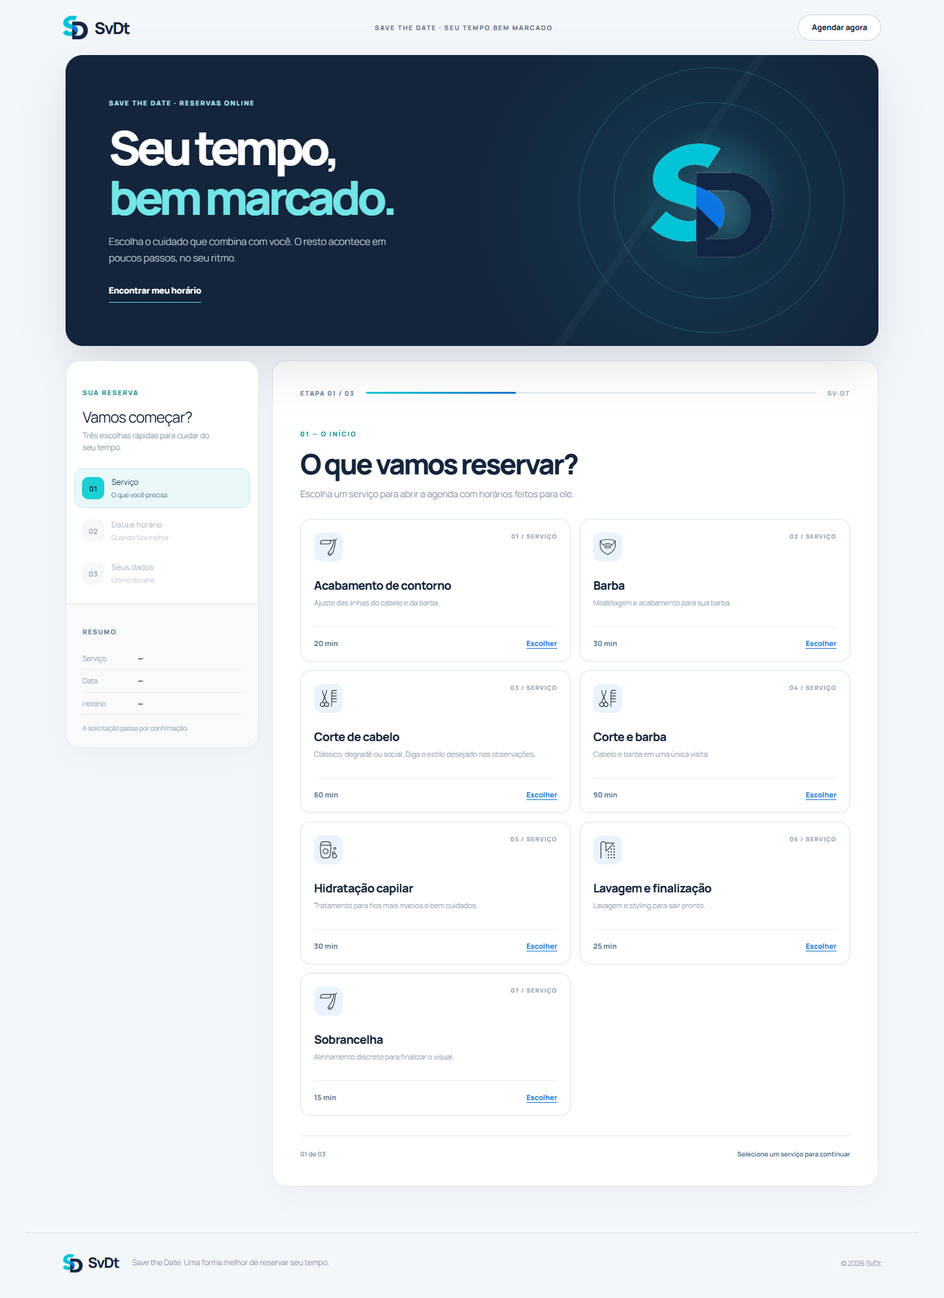
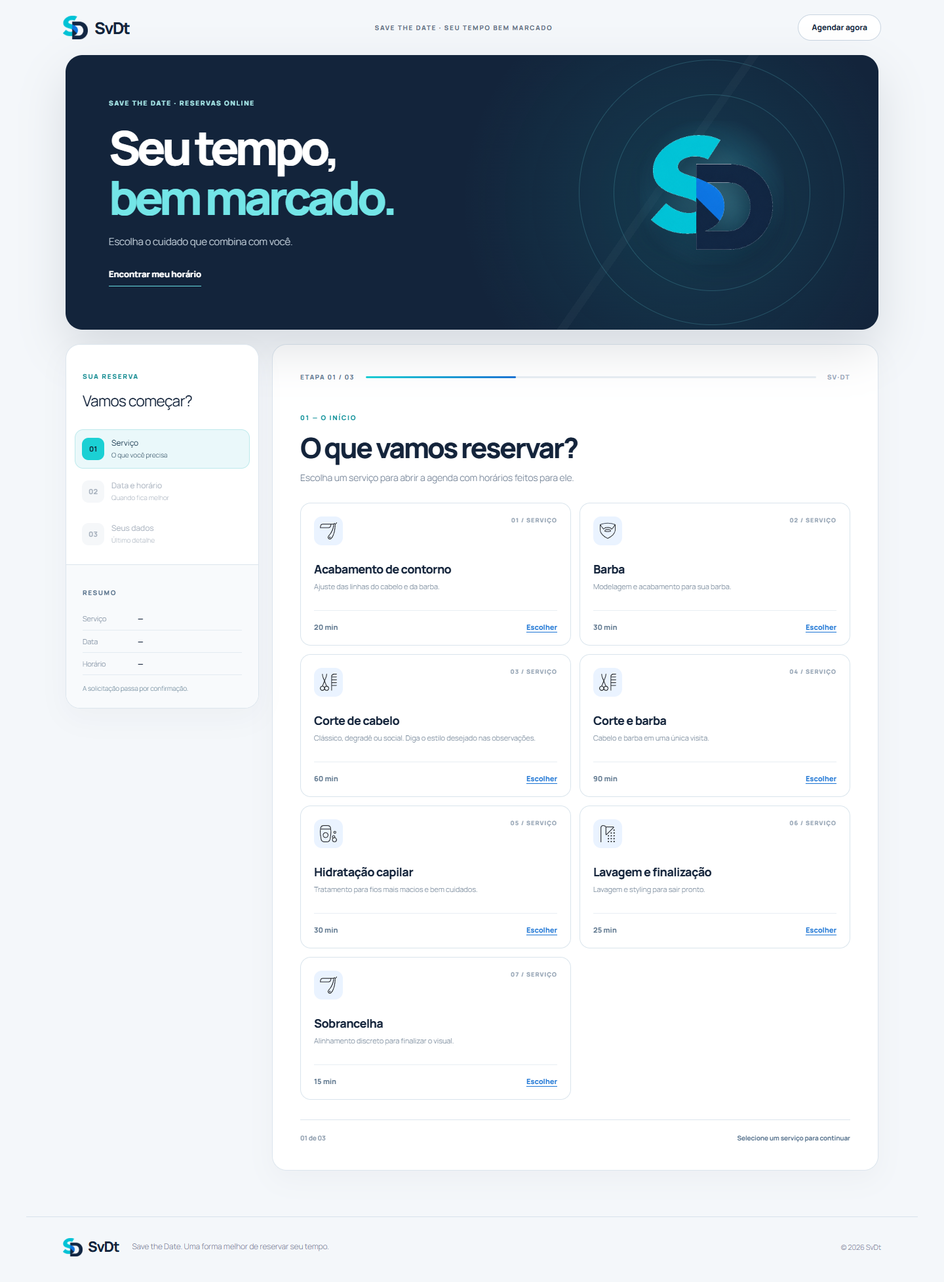
Clarify pending bookings and harden scheduling flows

diff --git a/public/booking.js b/public/booking.js
@@ -5,7 +5,9 @@
     const config = window.SvDt;
     if (!config?.api) return;
     const today = config.today;
+    const lastDate = config.lastDate;
     const todayDate = new Date(`${today}T12:00:00`);
+    const lastDay = new Date(`${lastDate}T12:00:00`);
     const state = { step: 1, service: null, date: null, time: null, month: new Date(todayDate.getFullYear(), todayDate.getMonth(), 1) };
     const reduceMotion = window.matchMedia('(prefers-reduced-motion: reduce)').matches;
     const ymd = date => `${date.getFullYear()}-${String(date.getMonth() + 1).padStart(2, '0')}-${String(date.getDate()).padStart(2, '0')}`;
@@ -37,7 +39,8 @@
       const title = $('.svdt-rail-top strong');
       const desc = $('.svdt-rail-top p');
       title.textContent = state.step === 1 ? 'Vamos começar?' : state.step === 2 ? 'Boa escolha.' : 'Último detalhe.';
-      desc.textContent = state.step === 1 ? 'Três escolhas rápidas para cuidar do seu tempo.' : state.step === 2 ? 'Agora encontre o melhor momento.' : 'Revise o horário e envie sua solicitação.';
+      desc.hidden = state.step === 1;
+      desc.textContent = state.step === 1 ? '' : state.step === 2 ? 'Agora encontre o melhor momento.' : 'Revise o horário e envie sua solicitação.';
     }
 
     function setStep(step, focus = true) {
@@ -100,7 +103,7 @@
       for (let day = 1; day <= total; day++) {
         const date = ymd(new Date(month.getFullYear(), month.getMonth(), day));
         const button = document.createElement('button'); button.type = 'button'; button.textContent = day;
-        button.disabled = date < today;
+        button.disabled = date < today || date > lastDate;
         button.classList.toggle('is-selected', date === state.date);
         button.setAttribute('aria-label', longDate(date));
         button.setAttribute('aria-pressed', String(date === state.date));
@@ -111,6 +114,7 @@
         grid.append(button);
       }
       $('[data-prev]').disabled = month.getFullYear() === todayDate.getFullYear() && month.getMonth() === todayDate.getMonth();
+      $('[data-next]').disabled = month.getFullYear() === lastDay.getFullYear() && month.getMonth() === lastDay.getMonth();
     }
 
     async function loadTimes() {

diff --git a/public/booking.css b/public/booking.css
@@ -59,8 +59,8 @@
 .svdt-progress button.is-complete{color:#1b74d4}.svdt-progress button.is-complete .svdt-progress-num{background:#eaf3ff;color:#1b74d4}.svdt-rail-summary p{color:#607d91}.svdt-service-icon,.svdt-service-card:nth-child(2n) .svdt-service-icon{background:#eaf3ff;color:#1b74d4}.svdt-service-icon img{display:block;width:26px;height:26px;object-fit:contain;opacity:.82}.svdt-service-action{text-decoration:underline;text-underline-offset:3px}.svdt-submit{justify-content:center}.svdt-success-icon{background:#eaf8fa;color:#1b74d4}.svdt-month button svg{width:16px;height:16px;display:block}.svdt-panel-foot b,.svdt-progress-indicator{display:none}
 @media(max-width:900px){.svdt-art-center{width:155px;height:155px;border-radius:20px}.svdt-art-center img{width:135px;height:128px}.svdt-orbit-one{width:215px;height:215px}.svdt-orbit-two{width:285px;height:285px}.svdt-art-note{bottom:14px}}
 .svdt-art-center{background:radial-gradient(circle,#75d5e37a 0%,#3597af35 48%,transparent 75%);box-shadow:none}.svdt-art-center img{filter:drop-shadow(0 14px 18px #06182b75)}
-.svdt-site-actions{display:flex;align-items:center;justify-content:flex-end;gap:18px}.svdt-site-cta{justify-content:center;text-align:center;padding:11px 20px;white-space:nowrap}.svdt-admin-link{color:#315a80;font-size:12px;font-weight:800;text-decoration:none;white-space:nowrap}.svdt-admin-link:hover{text-decoration:underline;text-underline-offset:3px}
-@media(max-width:700px){.svdt-site-actions{gap:12px}.svdt-site-cta{padding:9px 15px}.svdt-admin-link{font-size:10px}}
+.svdt-site-actions{display:flex;align-items:center;justify-content:flex-end;gap:18px}.svdt-site-cta{justify-content:center;text-align:center;padding:11px 20px;white-space:nowrap}
+@media(max-width:700px){.svdt-site-actions{gap:12px}.svdt-site-cta{padding:9px 15px}}
 @media(max-width:700px){.svdt-rail{position:static}.svdt-rail-summary{margin-top:0}}
 .svdt-service-card:hover,.svdt-service-card:active{transform:none}
 .svdt-selection-strip>span svg{display:block;width:15px;height:15px}

diff --git a/includes/class-svdt-admin.php b/includes/class-svdt-admin.php
@@ -29,9 +29,9 @@ final class SvDt_Admin
         check_admin_referer('svdt_' . $action);
     }
 
-    private function redirect(string $page, string $message): void
+    private function redirect(string $page, string $message, bool $success = true): void
     {
-        wp_safe_redirect(admin_url('admin.php?page=' . $page . '&notice=' . rawurlencode($message)));
+        wp_safe_redirect(admin_url('admin.php?page=' . $page . '&notice=' . rawurlencode($message) . '&notice_type=' . ($success ? 'success' : 'error')));
         exit;
     }
 
@@ -39,7 +39,8 @@ final class SvDt_Admin
     {
         echo '<div class="wrap svdt-admin"><div class="svdt-admin-head"><div><span class="svdt-eyebrow">SV·DT / GESTÃO</span><h1>' . esc_html($title) . '</h1><p>' . esc_html($description) . '</p></div><img class="svdt-admin-logo" src="' . esc_url(SVDT_URL . 'public/assets/logo-svdt.svg') . '" alt="SvDt" width="57" height="54"></div>';
         if (isset($_GET['notice'])) {
-            echo '<div class="notice notice-success is-dismissible"><p>' . esc_html(sanitize_text_field(wp_unslash($_GET['notice']))) . '</p></div>';
+            $notice_type = isset($_GET['notice_type']) && sanitize_key(wp_unslash($_GET['notice_type'])) === 'error' ? 'error' : 'success';
+            echo '<div class="notice notice-' . esc_attr($notice_type) . ' is-dismissible"><p>' . esc_html(sanitize_text_field(wp_unslash($_GET['notice']))) . '</p></div>';
         }
     }
 
@@ -155,7 +156,7 @@ final class SvDt_Admin
         $request->set_param('id', absint($_POST['id'] ?? 0));
         $request->set_param('status', sanitize_key(wp_unslash($_POST['status'] ?? '')));
         $result = (new SvDt_REST())->update_booking($request);
-        $this->redirect('svdt', is_wp_error($result) ? $result->get_error_message() : 'Agendamento atualizado.');
+        $this->redirect('svdt', is_wp_error($result) ? $result->get_error_message() : 'Agendamento atualizado.', !is_wp_error($result));
     }
 
     public function services_page(): void
@@ -185,11 +186,19 @@ final class SvDt_Admin
         $duration = absint($_POST['duration'] ?? 0);
         $buffer = absint($_POST['buffer'] ?? 0);
         if (!$name || strlen($name) > 150 || $duration < 5 || $duration > 480 || $buffer > 120) {
-            $this->redirect('svdt-services', 'Dados inválidos.');
+            $this->redirect('svdt-services', 'Dados inválidos.', false);
         }
         $data = array('name' => $name, 'description' => $description, 'duration_minutes' => $duration, 'buffer_minutes' => $buffer, 'active' => isset($_POST['active']) || !$id ? 1 : 0);
-        if ($id) $wpdb->update(SvDt_DB::table('services'), $data, array('id' => $id));
-        else $wpdb->insert(SvDt_DB::table('services'), $data + array('created_at' => current_time('mysql')));
+        $table = SvDt_DB::table('services');
+        if ($id) {
+            $result = $wpdb->update($table, $data, array('id' => $id));
+            if ($result === 0 && !$wpdb->get_var($wpdb->prepare("SELECT id FROM $table WHERE id = %d", $id))) {
+                $this->redirect('svdt-services', 'Serviço não encontrado.', false);
+            }
+        } else {
+            $result = $wpdb->insert($table, $data + array('created_at' => current_time('mysql')));
+        }
+        if ($result === false) $this->redirect('svdt-services', 'Não foi possível salvar o serviço.', false);
         $this->redirect('svdt-services', 'Serviço salvo.');
     }
 
@@ -197,7 +206,9 @@ final class SvDt_Admin
     {
         $this->guard('delete_service');
         global $wpdb;
-        $wpdb->update(SvDt_DB::table('services'), array('active' => 0), array('id' => absint($_POST['id'] ?? 0)));
+        $result = $wpdb->update(SvDt_DB::table('services'), array('active' => 0), array('id' => absint($_POST['id'] ?? 0)));
+        if ($result === false) $this->redirect('svdt-services', 'Não foi possível desativar o serviço.', false);
+        if ($result === 0) $this->redirect('svdt-services', 'Serviço não encontrado ou já desativado.', false);
         $this->redirect('svdt-services', 'Serviço desativado.');
     }
 
@@ -235,16 +246,17 @@ final class SvDt_Admin
         global $wpdb;
         $table = SvDt_DB::table('business_hours');
         if (!empty($_POST['delete_id'])) {
-            $wpdb->delete($table, array('id' => absint($_POST['delete_id'])));
+            $result = $wpdb->delete($table, array('id' => absint($_POST['delete_id'])));
         } else {
             $day = absint($_POST['weekday'] ?? 9);
             $start = sanitize_text_field(wp_unslash($_POST['start'] ?? ''));
             $end = sanitize_text_field(wp_unslash($_POST['end'] ?? ''));
             if ($day > 6 || !preg_match('/^([01][0-9]|2[0-3]):[0-5][0-9]$/', $start) || !preg_match('/^([01][0-9]|2[0-3]):[0-5][0-9]$/', $end) || $start >= $end) {
-                $this->redirect('svdt-schedule', 'Intervalo inválido.');
+                $this->redirect('svdt-schedule', 'Intervalo inválido.', false);
             }
-            $wpdb->insert($table, array('weekday' => $day, 'start_time' => $start . ':00', 'end_time' => $end . ':00', 'active' => 1));
+            $result = $wpdb->insert($table, array('weekday' => $day, 'start_time' => $start . ':00', 'end_time' => $end . ':00', 'active' => 1));
         }
+        if ($result === false || $result === 0) $this->redirect('svdt-schedule', 'Não foi possível atualizar o expediente.', false);
         $this->redirect('svdt-schedule', 'Expediente atualizado.');
     }
 
@@ -253,8 +265,9 @@ final class SvDt_Admin
         $this->guard('add_block');
         global $wpdb;
         $date = sanitize_text_field(wp_unslash($_POST['date'] ?? ''));
-        if (!SvDt_Schedule::parse_date($date)) $this->redirect('svdt-schedule', 'Data inválida.');
-        $wpdb->replace(SvDt_DB::table('blocked_dates'), array('blocked_date' => $date, 'reason' => sanitize_text_field(wp_unslash($_POST['reason'] ?? ''))));
+        if (!SvDt_Schedule::parse_date($date)) $this->redirect('svdt-schedule', 'Data inválida.', false);
+        $result = $wpdb->replace(SvDt_DB::table('blocked_dates'), array('blocked_date' => $date, 'reason' => sanitize_text_field(wp_unslash($_POST['reason'] ?? ''))));
+        if ($result === false || $result === 0) $this->redirect('svdt-schedule', 'Não foi possível bloquear a data.', false);
         $this->redirect('svdt-schedule', 'Data bloqueada.');
     }
 
@@ -262,7 +275,8 @@ final class SvDt_Admin
     {
         $this->guard('delete_block');
         global $wpdb;
-        $wpdb->delete(SvDt_DB::table('blocked_dates'), array('id' => absint($_POST['id'] ?? 0)));
+        $result = $wpdb->delete(SvDt_DB::table('blocked_dates'), array('id' => absint($_POST['id'] ?? 0)));
+        if ($result === false || $result === 0) $this->redirect('svdt-schedule', 'Não foi possível liberar a data.', false);
         $this->redirect('svdt-schedule', 'Data liberada.');
     }
 }

diff --git a/public/booking.php b/public/booking.php
@@ -4,7 +4,7 @@
     <div class="svdt-hero-copy">
       <span class="svdt-overline">SAVE THE DATE · RESERVAS ONLINE</span>
       <h1>Seu tempo,<br><em>bem marcado.</em></h1>
-      <p>Escolha o cuidado que combina com você. O resto acontece em poucos passos, no seu ritmo.</p>
+      <p>Escolha o cuidado que combina com você.</p>
       <a href="#svdt-booking" class="svdt-hero-link">Encontrar meu horário</a>
     </div>
     <div class="svdt-hero-art" aria-hidden="true">
@@ -15,7 +15,7 @@
 
   <div class="svdt-workspace" id="svdt-booking">
     <aside class="svdt-rail" aria-label="Progresso e resumo da reserva">
-      <div class="svdt-rail-top"><span class="svdt-rail-caption">SUA RESERVA</span><strong>Vamos começar?</strong><p>Três escolhas rápidas para cuidar do seu tempo.</p></div>
+      <div class="svdt-rail-top"><span class="svdt-rail-caption">SUA RESERVA</span><strong>Vamos começar?</strong><p hidden></p></div>
       <ol class="svdt-progress">
         <li><button type="button" data-step-go="1" aria-current="step"><span class="svdt-progress-num">01</span><span><b>Serviço</b><small>O que você precisa</small></span></button></li>
         <li><button type="button" data-step-go="2" disabled><span class="svdt-progress-num">02</span><span><b>Data e horário</b><small>Quando fica melhor</small></span></button></li>
@@ -45,7 +45,7 @@
         <form data-booking-form class="svdt-contact"><div class="svdt-field-row"><label>Nome completo<input name="customer_name" autocomplete="name" maxlength="150" placeholder="Como podemos chamar você?" required></label><label>E-mail<input type="email" name="customer_email" autocomplete="email" maxlength="190" placeholder="voce@exemplo.com" required></label></div><label>Telefone<input type="tel" name="customer_phone" autocomplete="tel" maxlength="30" placeholder="(11) 99999-9999" required></label><label>Observações <small>opcional</small><textarea name="notes" maxlength="2000" rows="3" placeholder="Alguma preferência ou detalhe importante?"></textarea></label><div class="svdt-trap" aria-hidden="true"><label>Site da empresa<input name="company_website" tabindex="-1" autocomplete="off"></label></div><p class="svdt-privacy">Usaremos seus dados apenas para administrar esta solicitação.</p><div class="svdt-feedback" data-feedback role="status" aria-live="polite"></div><button type="submit" class="svdt-submit" data-submit>Enviar solicitação</button></form>
       </section>
 
-      <section class="svdt-success" data-success hidden role="status" aria-live="polite"><div class="svdt-success-icon" aria-hidden="true">✓</div><span class="svdt-section-index">PEDIDO RECEBIDO</span><h2>Sua hora foi marcada</h2><p>Recebemos sua solicitação. Guarde a referência abaixo para conversar com o estabelecimento.</p><div class="svdt-reference"><span>REFERÊNCIA</span><strong data-reference></strong></div><p class="svdt-success-note">O horário fica reservado provisoriamente até a confirmação.</p><button type="button" data-new>Fazer outra reserva</button></section>
+      <section class="svdt-success" data-success hidden role="status" aria-live="polite"><div class="svdt-success-icon" aria-hidden="true">✓</div><span class="svdt-section-index">PEDIDO RECEBIDO</span><h2>Solicitação de agendamento recebida</h2><p>Recebemos sua solicitação. Guarde a referência abaixo para conversar com o estabelecimento.</p><div class="svdt-reference"><span>REFERÊNCIA</span><strong data-reference></strong></div><p class="svdt-success-note">O horário fica reservado provisoriamente até a confirmação.</p><button type="button" data-new>Fazer outra reserva</button></section>
     </div>
   </div>
 </div>

diff --git a/tests/smoke-local.php b/tests/smoke-local.php
@@ -34,6 +34,10 @@ try {
     $change->set_param('id', $booking_id);
     $change->set_param('status', 'confirmed');
     if (is_wp_error($controller->update_booking($change))) throw new RuntimeException('Confirmação falhou.');
+    $stale = $wpdb->update(SvDt_DB::table('bookings'), array('status' => 'cancelled'), array('id' => $booking_id, 'status' => 'pending'), array('%s'), array('%d', '%s'));
+    if ($stale !== 0 || $wpdb->get_var($wpdb->prepare('SELECT status FROM ' . SvDt_DB::table('bookings') . ' WHERE id = %d', $booking_id)) !== 'confirmed') {
+        throw new RuntimeException('Atualização condicional não protegeu o status confirmado.');
+    }
     $change->set_param('status', 'cancelled');
     if (is_wp_error($controller->update_booking($change))) throw new RuntimeException('Cancelamento falhou.');
     $released = SvDt_Schedule::slots((int) $service->id, $date);
@@ -51,7 +55,14 @@ try {
     if (!is_wp_error(SvDt_Schedule::slots((int) $service->id, $date))) throw new RuntimeException('Serviço inativo retornou horários.');
     $wpdb->update(SvDt_DB::table('services'), array('active' => $original_active), array('id' => $service->id));
     if (SvDt_Schedule::slots((int) $service->id, '2020-01-01') !== array()) throw new RuntimeException('Data passada retornou horários.');
-    WP_CLI::success('Reserva, conflito, estados, cancelamento, bloqueio, serviço inativo e entradas inválidas passaram.');
+    $last_allowed = current_datetime()->modify('+90 days')->format('Y-m-d');
+    if (is_wp_error(SvDt_Schedule::slots((int) $service->id, $last_allowed))) throw new RuntimeException('O último dia da janela foi rejeitado.');
+    $beyond = current_datetime()->modify('+91 days')->format('Y-m-d');
+    $outside = SvDt_Schedule::slots((int) $service->id, $beyond);
+    if (!is_wp_error($outside) || $outside->get_error_code() !== 'date_out_of_range') throw new RuntimeException('Data além de 90 dias foi aceita na disponibilidade.');
+    $outside_booking = SvDt_Bookings::create(array_replace($data, array('date' => $beyond)));
+    if (!is_wp_error($outside_booking) || $outside_booking->get_error_code() !== 'date_out_of_range') throw new RuntimeException('Data além de 90 dias foi aceita na reserva.');
+    WP_CLI::success('Reserva, conflito, estados, atualização condicional, limite de 90 dias, cancelamento, bloqueio, serviço inativo e entradas inválidas passaram.');
 } finally {
     if ($booking_id) $wpdb->delete(SvDt_DB::table('bookings'), array('id' => $booking_id));
     if ($block_id) $wpdb->delete(SvDt_DB::table('blocked_dates'), array('id' => $block_id));

diff --git a/includes/class-svdt-rest.php b/includes/class-svdt-rest.php
@@ -105,8 +105,14 @@ final class SvDt_REST
         if ($status !== $booking->status && !in_array($status, $transitions[$booking->status] ?? array(), true)) {
             return new WP_Error('invalid_transition', 'Mudança de status não permitida.', array('status' => 409));
         }
-        if ($status !== $booking->status && $wpdb->update($table, array('status' => $status), array('id' => $id), array('%s'), array('%d')) === false) {
-            return new WP_Error('update_failed', 'Não foi possível atualizar o agendamento.', array('status' => 500));
+        if ($status !== $booking->status) {
+            $updated = $wpdb->update($table, array('status' => $status), array('id' => $id, 'status' => $booking->status), array('%s'), array('%d', '%s'));
+            if ($updated === false) {
+                return new WP_Error('update_failed', 'Não foi possível atualizar o agendamento.', array('status' => 500));
+            }
+            if ($updated === 0) {
+                return new WP_Error('booking_changed', 'O status foi alterado por outra operação. Atualize a página e tente novamente.', array('status' => 409));
+            }
         }
         return rest_ensure_response(array('id' => $id, 'status' => $status));
     }

diff --git a/svdt.php b/svdt.php
@@ -2,7 +2,7 @@
 /**
  * Plugin Name: SvDt
  * Description: Uma experiência de agendamento com serviços, disponibilidade e gestão no WordPress.
- * Version: 0.3.1
+ * Version: 0.3.2
  * Requires at least: 6.2
  * Requires PHP: 8.0
  * Text Domain: svdt
@@ -10,7 +10,8 @@
 
 defined('ABSPATH') || exit;
 
-define('SVDT_VERSION', '0.3.1');
+define('SVDT_VERSION', '0.3.2');
+define('SVDT_BOOKING_WINDOW_DAYS', 90);
 define('SVDT_PATH', plugin_dir_path(__FILE__));
 define('SVDT_URL', plugin_dir_url(__FILE__));
 
@@ -53,6 +54,7 @@ function svdt_render_shortcode(): string
     wp_add_inline_script('svdt-booking', 'window.SvDt=' . wp_json_encode(array(
         'api' => esc_url_raw(rest_url('svdt/v1/')),
         'today' => current_datetime()->format('Y-m-d'),
+        'lastDate' => current_datetime()->setTime(0, 0)->modify('+' . SVDT_BOOKING_WINDOW_DAYS . ' days')->format('Y-m-d'),
         'serviceIcon' => esc_url_raw(SVDT_URL . 'public/assets/barber-shop.svg'),
         'serviceIcons' => array(
             'Acabamento de contorno' => esc_url_raw(SVDT_URL . 'public/assets/razor-barber.svg'),

diff --git a/includes/class-svdt-schedule.php b/includes/class-svdt-schedule.php
@@ -20,8 +20,12 @@ final class SvDt_Schedule
         if (!$service) {
             return new WP_Error('invalid_service', 'Serviço indisponível.', array('status' => 404));
         }
-        if ($day < current_datetime()->setTime(0, 0)) {
+        $today = current_datetime()->setTime(0, 0);
+        if ($day < $today) {
             return array();
+        }
+        if ($day > $today->modify('+' . SVDT_BOOKING_WINDOW_DAYS . ' days')) {
+            return new WP_Error('date_out_of_range', sprintf('Escolha uma data nos próximos %d dias.', SVDT_BOOKING_WINDOW_DAYS), array('status' => 400));
         }
         $blocked = SvDt_DB::table('blocked_dates');
         if ($wpdb->get_var($wpdb->prepare("SELECT id FROM $blocked WHERE blocked_date = %s", $date))) {

diff --git a/public/showcase-template.php b/public/showcase-template.php
@@ -11,7 +11,6 @@ wp_enqueue_style('svdt-booking', SVDT_URL . 'public/booking.css', array(), SVDT_
     <a class="svdt-logo" href="<?php echo esc_url(home_url('/')); ?>" aria-label="SvDt, início"><img src="<?php echo esc_url(SVDT_URL . 'public/assets/logo-svdt.svg'); ?>" alt="" width="38" height="36"><span>SvDt</span></a>
     <span class="svdt-site-label">SAVE THE DATE · SEU TEMPO BEM MARCADO</span>
     <nav class="svdt-site-actions" aria-label="Acesso rápido">
-      <?php if (current_user_can('manage_options')) : ?><a class="svdt-admin-link" href="<?php echo esc_url(admin_url('admin.php?page=svdt')); ?>">Painel SvDt</a><?php endif; ?>
       <a class="svdt-site-cta" href="#svdt-booking">Agendar agora</a>
     </nav>
   </header>

diff --git a/README.md b/README.md
@@ -7,7 +7,7 @@ Plugin WordPress autoral demonstrativo para negócios que atendem com hora marca
 ## Experiência
 
 - No catálogo de demonstração, **Corte de cabelo** reúne estilos como clássico, degradê e social; o cliente informa a preferência nas observações. **Barba** aparece como um único serviço.
-- A agenda aparece após a escolha do serviço e mostra apenas horários válidos para sua duração.
+- A agenda aparece após a escolha do serviço e mostra apenas horários válidos para sua duração, dentro dos próximos 90 dias.
 - Um horário selecionado abre o formulário; voltar preserva as escolhas anteriores.
 - O resumo e o indicador de progresso acompanham cada etapa.
 - Estados de carregamento, vazio, erro e sucesso têm mensagens próprias.
@@ -29,7 +29,7 @@ Outras telas: [serviço no celular](docs/screenshots/svdt-mobile-step1.png), [da
 - Serviços com duração, intervalo após atendimento, descrição e estado ativo.
 - Expediente com múltiplos intervalos por dia e bloqueio de datas.
 - Disponibilidade com antecedência mínima de 60 minutos e passos de 30 minutos.
-- Reserva pública com status pendente, validação no servidor, honeypot e limite de tentativas por IP.
+- Solicitação pública com status pendente, validação no servidor, honeypot e limite de tentativas por IP; a tela de sucesso informa que ainda depende de confirmação.
 - Bloqueio MySQL por agenda durante a nova verificação e gravação, evitando reservas simultâneas sobrepostas.
 - Painel com calendário mensal que marca os dias com reservas, filtros por data, status e serviço; ações de confirmação, cancelamento e conclusão.
 - Endpoints REST públicos e administrativos.
@@ -48,7 +48,7 @@ Na atualização de uma instalação anterior, faça um backup do banco, desativ
 
 Nesta instalação Local, a demonstração abre em **`http://localhost:10011/`** e o painel em **`http://localhost:10011/wp-admin/`**.
 
-Após entrar no WordPress como administrador, use **SvDt → Agendamentos**, **Serviços** e **Disponibilidade** em `wp-admin/admin.php?page=svdt`. A página pública também mostra o atalho **Painel SvDt** no cabeçalho apenas para administradores autenticados. A área de gestão faz parte do painel WordPress; não é uma página pública separada.
+Após entrar no WordPress como administrador, use **SvDt → Agendamentos**, **Serviços** e **Disponibilidade** em `wp-admin/admin.php?page=svdt`. A área de gestão faz parte do painel WordPress; não é uma página pública separada.
 
 ## API
 
@@ -64,7 +64,7 @@ O corpo do POST contém `service_id`, `date`, `time`, `customer_name`, `customer
 
 ## Verificação
 
-Validado no Local com WordPress 7.1.4, PHP 8.2.29 e MySQL 8.4.0. Na migração para a versão 0.3.0, as quatro tabelas foram renomeadas e os 7 serviços e 10 agendamentos existentes foram preservados. O teste `tests/smoke-local.php` verificou reserva, conflitos, transições de status, cancelamento, data bloqueada, serviço inativo e entrada inválida. Duas requisições simultâneas para o mesmo horário produziram HTTP 201 e HTTP 409. O endpoint administrativo rejeitou acesso público com HTTP 401. No navegador, o fluxo avançou até o formulário com os assets carregados da pasta `svdt`.
+Validado no Local com WordPress 7.1.4, PHP 8.2.29 e MySQL 8.4.0. Na migração para a versão 0.3.0, as quatro tabelas foram renomeadas e os 7 serviços e 10 agendamentos existentes foram preservados. O teste `tests/smoke-local.php` verificou reserva, conflitos, transições de status, atualização condicional, limite de 90 dias, cancelamento, data bloqueada, serviço inativo e entrada inválida. Duas requisições simultâneas para o mesmo horário produziram HTTP 201 e HTTP 409. O endpoint administrativo rejeitou acesso público com HTTP 401. No navegador, o fluxo completo criou uma solicitação pendente, exibiu a nova mensagem e o registro de demonstração foi removido após a conferência.
 
 Para reproduzir: `wp eval-file tests/seed-local.php`, `wp eval-file tests/smoke-local.php` e `node tests/concurrency-local.mjs` no ambiente Local. O teste de concorrência usa a porta 10011 por padrão; ajuste `SVDT_PORT` se necessário. Ele deixa uma reserva fictícia pendente.
 
